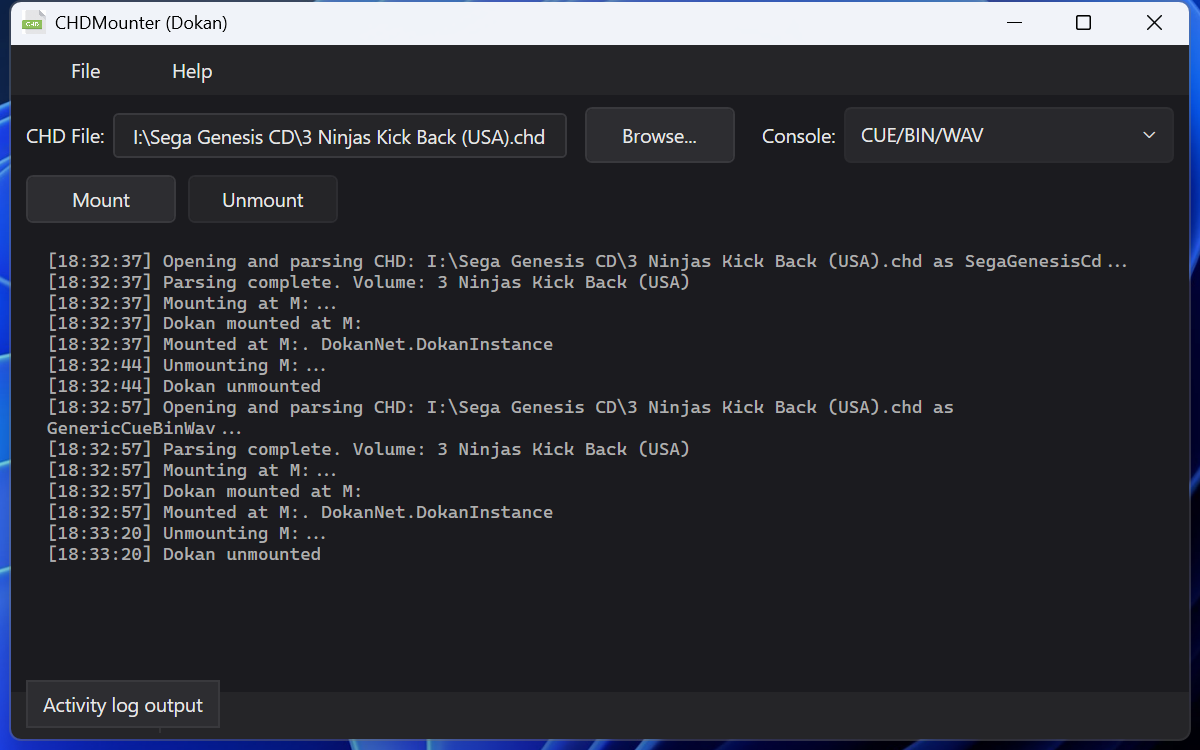
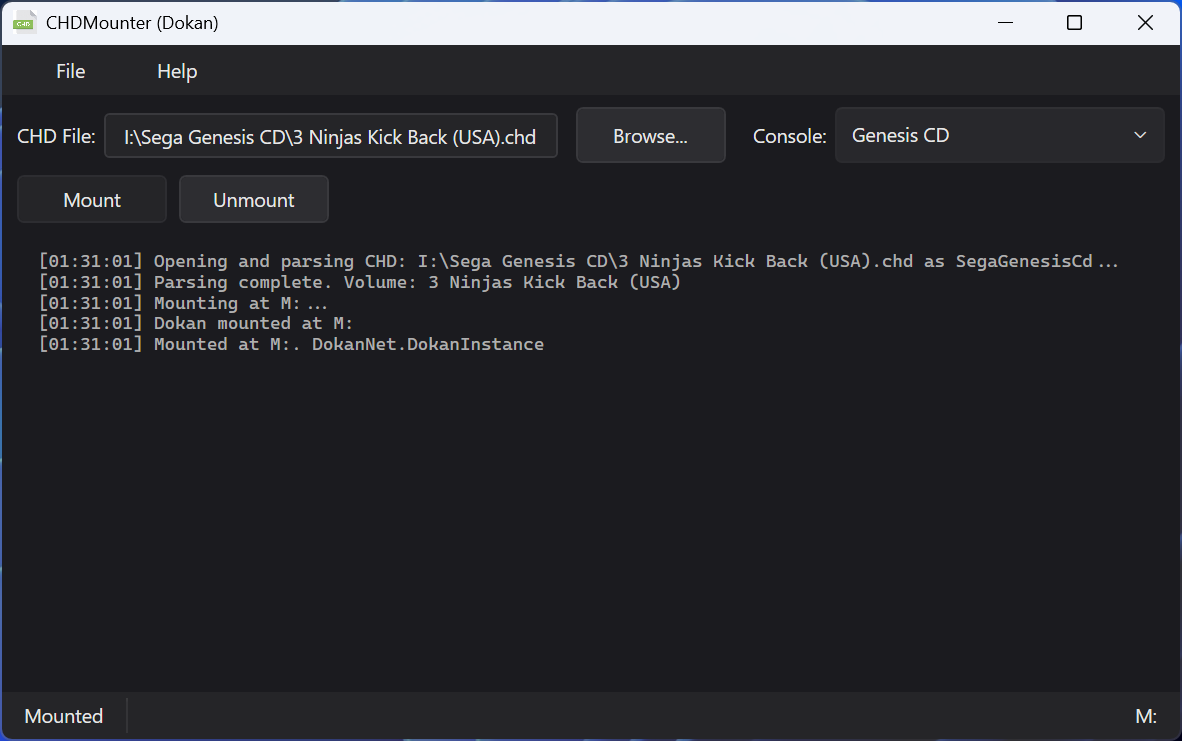
Refactor update checker for new release tag format; add variant (WinFsp/Dokan) and architecture (arm64/x64) asset detection; prompt user to download update directly via MessageBox

diff --git a/CHDMounter.Core/Services/UpdateChecker.cs b/CHDMounter.Core/Services/UpdateChecker.cs
@@ -1,3 +1,4 @@
+using System.Runtime.InteropServices;
 using System.Text.Json;
 
 namespace CHDMounter.Core.Services;
@@ -51,19 +52,21 @@ public static class UpdateChecker
             var root = doc.RootElement;
 
             var tagName = root.GetProperty("tag_name").GetString() ?? "0.0.0";
-            var latestVersion = tagName.StartsWith('v') ? tagName[1..] : tagName;
+            var latestVersion = tagName.StartsWith("release_", StringComparison.Ordinal) ? tagName[8..] : tagName;
             var releaseUrl = root.GetProperty("html_url").GetString() ?? ReleasesPageUrl;
 
             var downloadUrl = releaseUrl;
 
             if (root.TryGetProperty("assets", out var assets) && assets.GetArrayLength() > 0)
             {
-                var appName = AppInfoHelper.GetAppName().ToLowerInvariant();
+                var variant = GetVariant();
+                var arch = GetArchitecture();
 
                 foreach (var asset in assets.EnumerateArray())
                 {
-                    var name = asset.GetProperty("name").GetString()?.ToLowerInvariant() ?? "";
-                    if (name.Contains(appName, StringComparison.Ordinal))
+                    var name = asset.GetProperty("name").GetString() ?? "";
+                    if (name.Contains(variant, StringComparison.OrdinalIgnoreCase)
+                        && name.Contains(arch, StringComparison.OrdinalIgnoreCase))
                     {
                         downloadUrl = asset.GetProperty("browser_download_url").GetString() ?? releaseUrl;
                         break;
@@ -91,6 +94,21 @@ public static class UpdateChecker
                 CurrentVersion = AppInfoHelper.GetVersion()
             };
         }
+    }
+
+    private static string GetVariant()
+    {
+        var appName = AppInfoHelper.GetAppName();
+        return appName.Contains("WinFsp", StringComparison.OrdinalIgnoreCase) ? "WinFsp" : "Dokan";
+    }
+
+    private static string GetArchitecture()
+    {
+        return RuntimeInformation.ProcessArchitecture switch
+        {
+            Architecture.Arm64 => "arm64",
+            _ => "x64"
+        };
     }
 
     private static bool IsNewer(string latest, string current)

diff --git a/CHDMounter.Core/Views/MainWindowBase.cs b/CHDMounter.Core/Views/MainWindowBase.cs
@@ -119,9 +119,19 @@ public class MainWindowBase : Window
             var result = UpdateChecker.Result;
             if (result is { HasUpdate: true })
             {
-                UpdateBanner.Visibility = Visibility.Visible;
-                UpdateBannerText.Text = $"A new version ({result.LatestVersion}) is available!";
-                UpdateBannerButton.Tag = result.DownloadUrl;
+                var message = $"A new version ({result.LatestVersion}) is available!\n\nWould you like to download it?";
+                var caption = "Update Available";
+                if (MessageBox.Show(message, caption, MessageBoxButton.YesNo, MessageBoxImage.Information) == MessageBoxResult.Yes)
+                {
+                    try
+                    {
+                        Process.Start(new ProcessStartInfo(result.DownloadUrl) { UseShellExecute = true });
+                    }
+                    catch (Exception ex)
+                    {
+                        Serilog.Log.Warning(ex, "Failed to open download URL: {Url}", result.DownloadUrl);
+                    }
+                }
             }
         };
         timer.Start();
